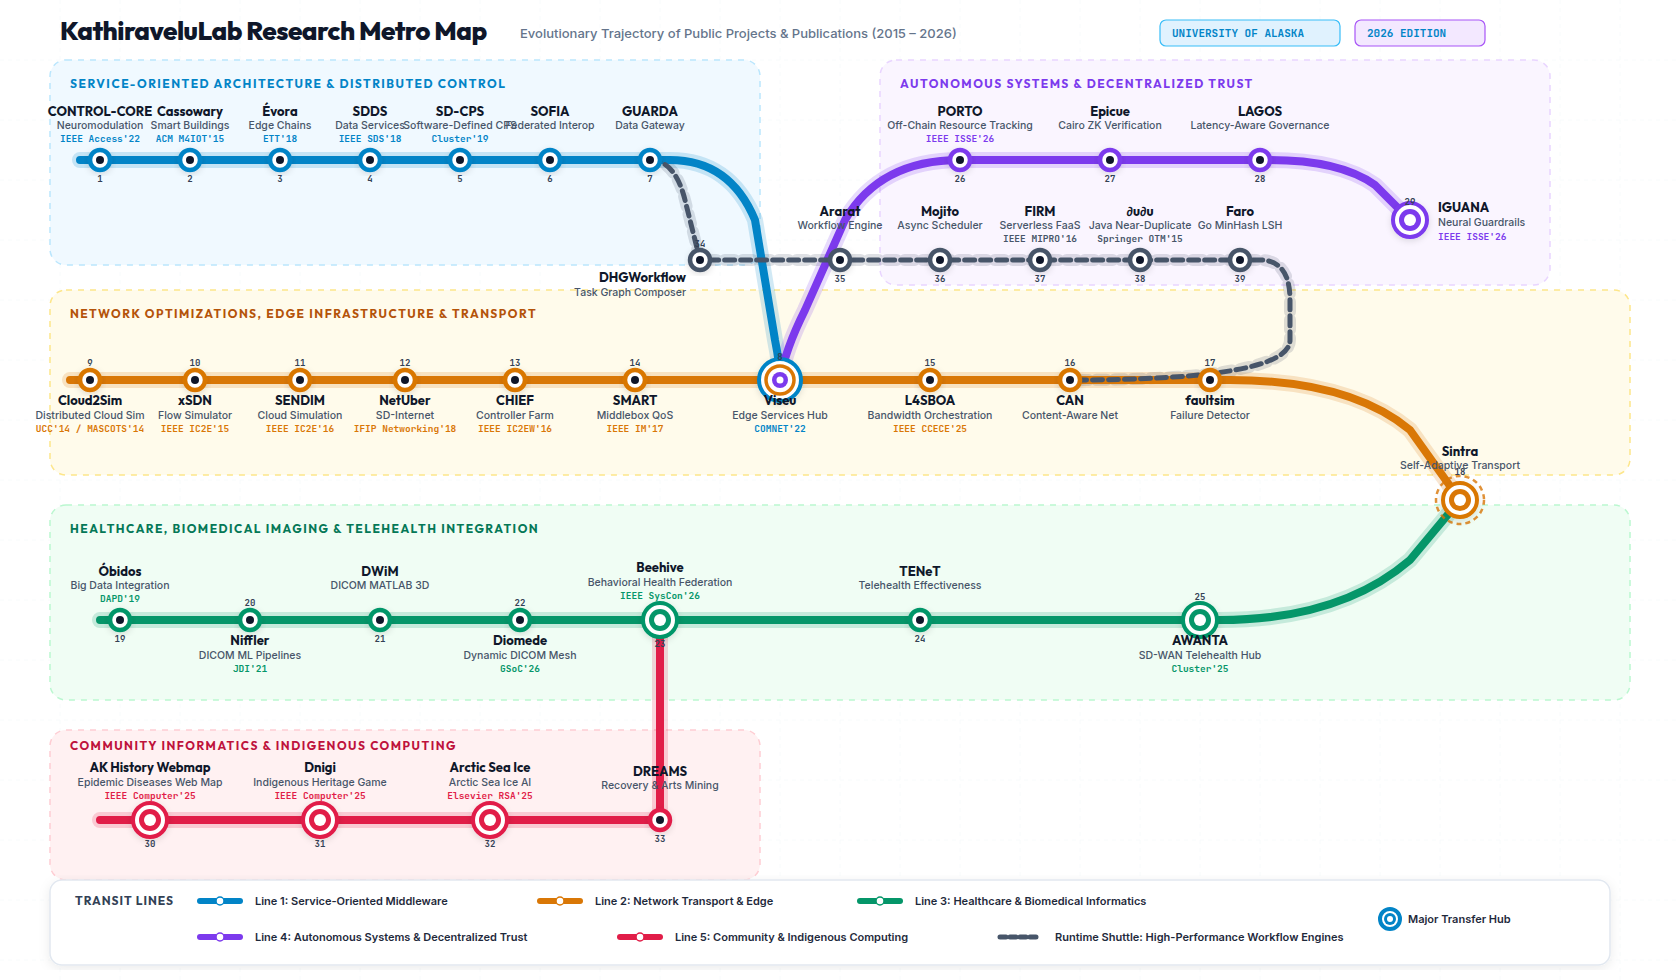
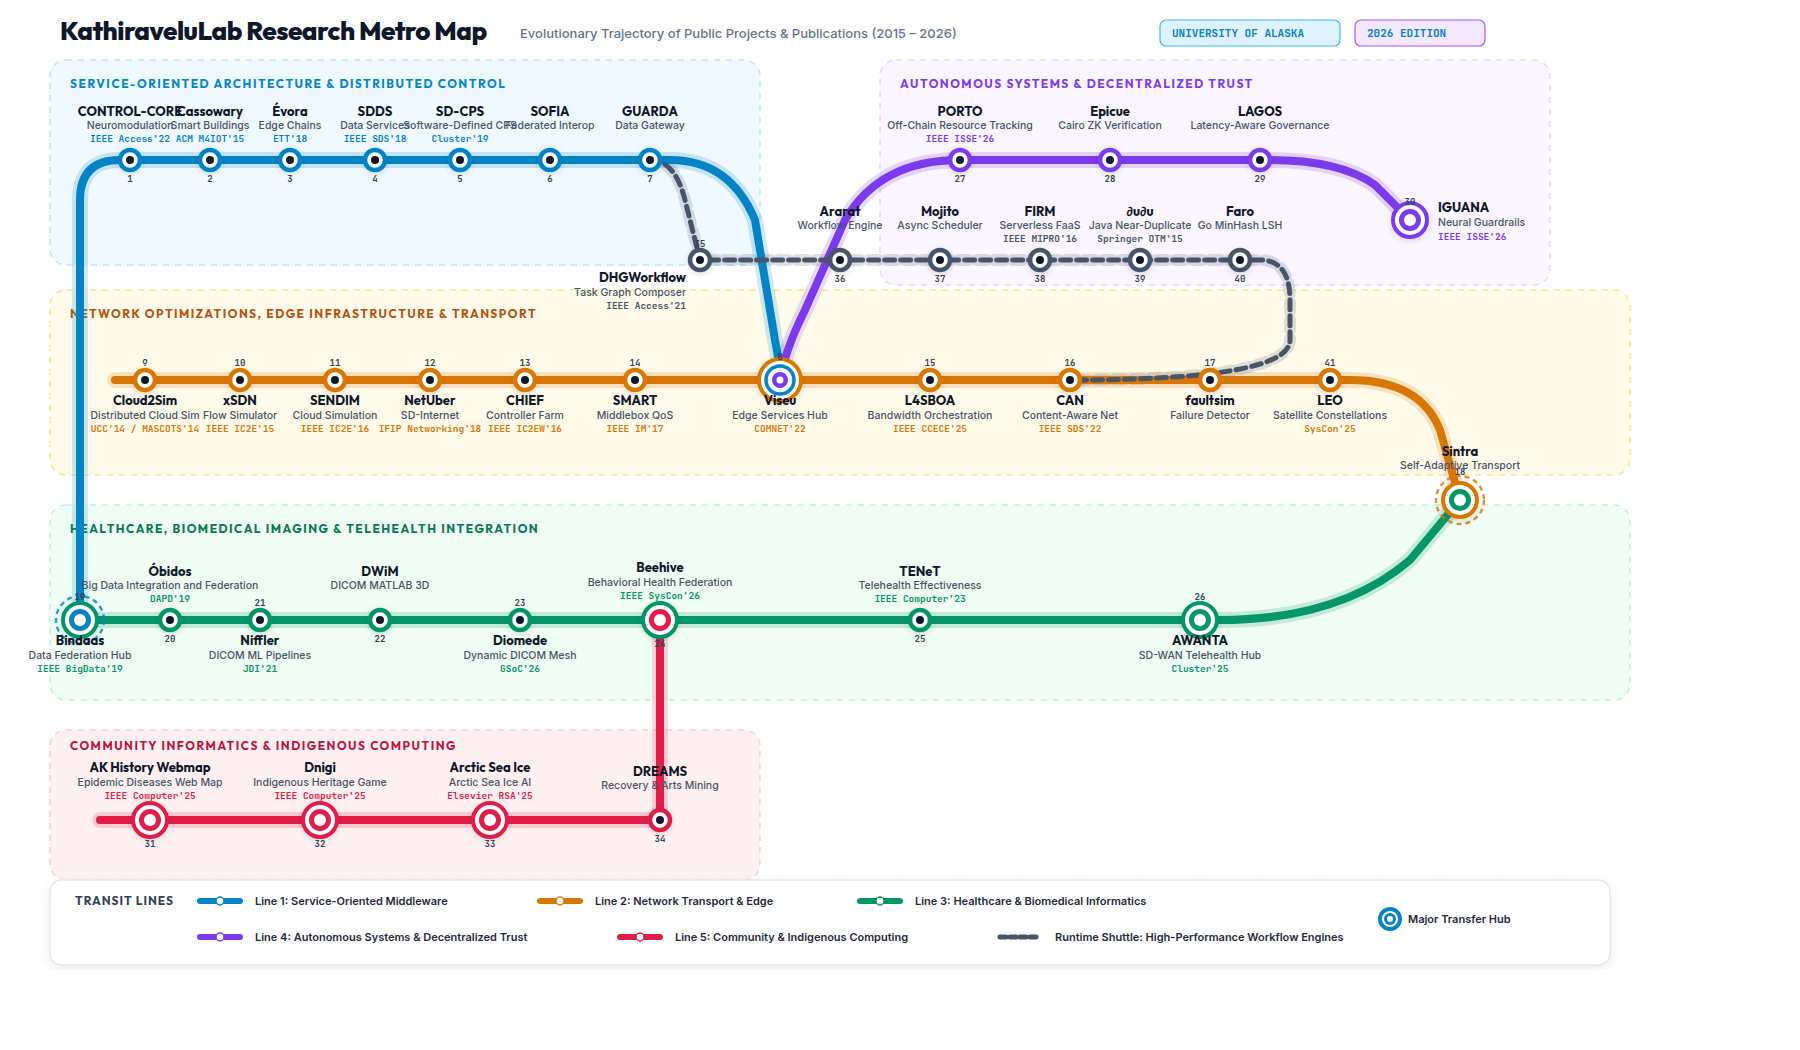
Add LEO.

diff --git a/README.md b/README.md
@@ -13,7 +13,7 @@ The metropolitan map organizes **41 flagship research stations** across **5 inte
 | Line | Name | Color | Core Research Focus |
 | :--- | :--- | :---: | :--- |
 | **Line 1** | **Service-Oriented & Distributed Middleware** | Cyan (`#0284c7`) | Closed-loop neuromodulation, context-aware smart buildings, service chaining, CPS, and federated interoperability. |
-| **Line 2** | **Network Transport & Edge Infrastructure** | Amber (`#d97706`) | Cloud/MapReduce simulation, dynamic flow modeling, community network controller farms, middlebox QoS, bandwidth orchestration, and fault detectors. |
+| **Line 2** | **Network Transport & Edge Infrastructure** | Amber (`#d97706`) | Cloud/MapReduce simulation, dynamic flow modeling, community network controller farms, middlebox QoS, bandwidth orchestration, fault detectors, and LEO satellite constellations with inter-satellite links. |
 | **Line 3** | **Healthcare & Biomedical Informatics** | Emerald (`#059669`) | High-throughput DICOM ML pipelines, dynamic telemedicine routing mesh, behavioral health data federation, and rural telehealth. |
 | **Line 4** | **Autonomous Systems & Decentralized Trust** | Purple (`#7c3aed`) | Blockchain-based edge middleware, verifiable off-chain state channels, Cairo ZK proofs, latency-bounded governance, and neural guardrails. |
 | **Line 5** | **Community Informatics & Circumpolar Computing** | Coral (`#e11d48`) | Alaska Native epidemic history mapping, Indigenous serious games, Arctic sea ice forecasting, and art therapy mining. |
